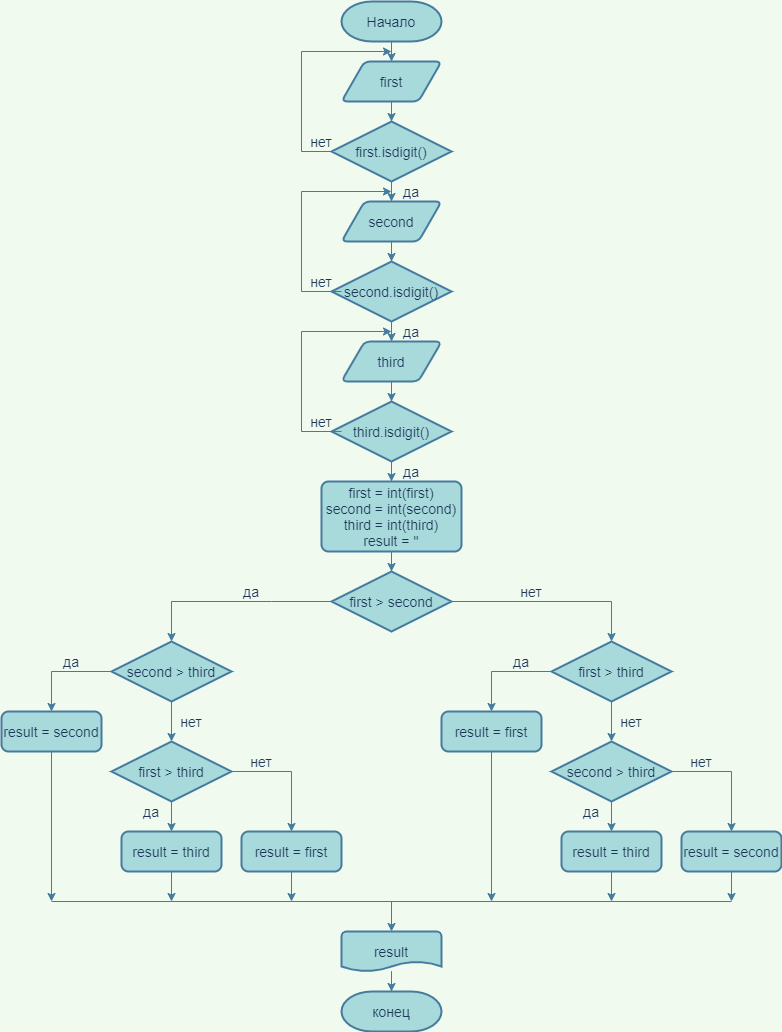
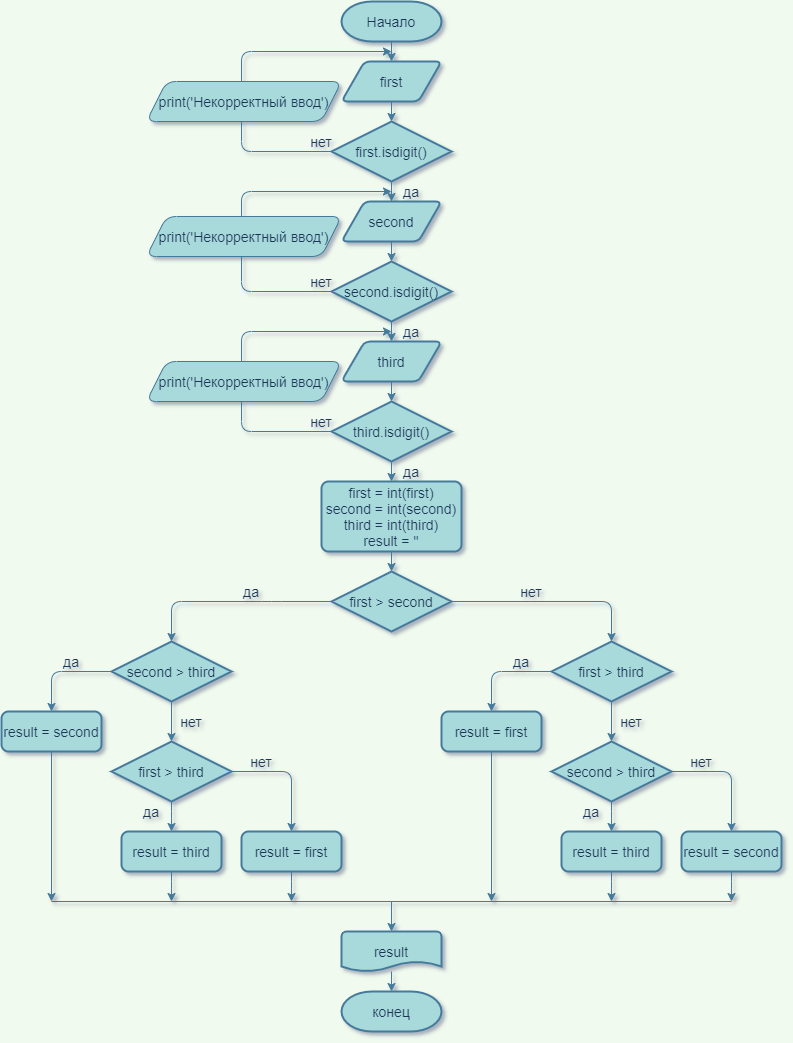
Сделал упражнение 1.8, правки предыдущих упражнений.

diff --git a/exercise_8.py b/exercise_8.py
@@ -1,3 +1,28 @@
 """
 8. Определить, является ли год, который ввел пользователем, високосным или невисокосным.
 """
+
+
+def leap_year():
+    while True:
+        year = input('Введите желаемый год ')
+        if len(year) == 4 and year.isdigit():
+            break
+        else:
+            print('Некорректный ввод')
+    year = int(year)
+    yes = f'{year} год является високосным'
+    no = f'{year} год не является високосным'
+    if year % 4 == 0:
+        if year % 100 == 0:
+            if year % 400 == 0:
+                return yes
+            else:
+                return no
+        return yes
+    else:
+        return no
+
+
+if __name__ == "__main__":
+    print(leap_year())

diff --git a/exercise_9.py b/exercise_9.py
@@ -8,14 +8,20 @@ def medium_num():
         first = input('Введите первое число ')
         if first.isdigit():
             break
+        else:
+            print('Некорректный ввод')
     while True:
         second = input('Введите второе число ')
         if second.isdigit():
             break
+        else:
+            print('Некорректный ввод')
     while True:
         third = input('Введите третье число ')
         if third.isdigit():
             break
+        else:
+            print('Некорректный ввод')
     first = int(first)
     second = int(second)
     third = int(third)

diff --git a/exercise_1.py b/exercise_1.py
@@ -8,6 +8,8 @@ def sum_mult():
         my_var = input('Введите трёхзначное число ')
         if len(my_var) == 3 and my_var.isdigit():
             break
+        else:
+            print('Некорректный ввод')
     a, b, c = int(my_var[0]), int(my_var[1]), int(my_var[2])
     my_sum = a + b + c
     my_mult = a * b * c
